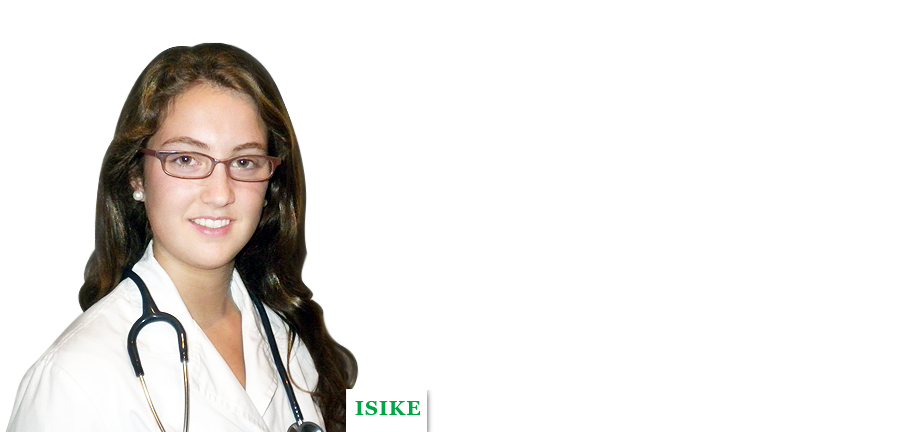
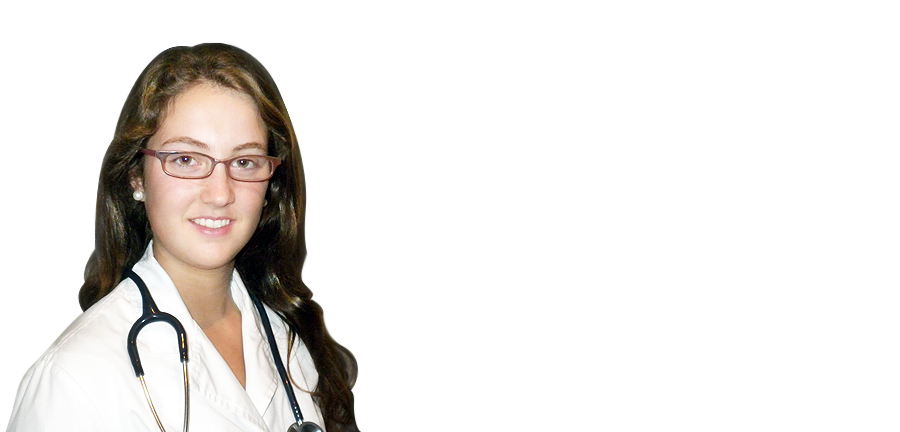
Commit's Info:
- Se cambiarón las imagenes del Banner
- Se modificó imagen del Footer y su pocición
- Se modificó el texto de Quienes Somos
- Se dejarón las cuentas de correo destinatarias
  finales para el formulario de contacto.

Changed region(s): [[0.1867, 0.1806, 0.3111, 0.3009], [0.3733, 0.9028, 0.4978, 1.0], [0.1867, 0.7824, 0.2178, 0.8125]]

diff --git a/website/form.php b/website/form.php
@@ -13,33 +13,12 @@ $comentario = $_POST['comentario'];
 
 //echo "pasa";*/
 
-
-
-
-
-
-
-
-
-
 $html = "
  <h3>Contacto - Larvaterapia</h3>
  <br    /><strong>Nombre:</strong> " . $nombre . " " . $apellido .
 "<br    /><strong>E-mail:</strong> " . $email .
 "<br    /><strong>Comentario:</strong>  " . $comentario .
-"
-
-
-";
-
-
-
-
-
-
-
-
-
+"";
 
 date_default_timezone_set('America/Santiago'); //Se define la zona horaria
 require_once('class/class.phpmailer.php'); //Incluimos la clase phpmailer
@@ -54,8 +33,13 @@ try {
                          //Gmail o de GoogleApps
   $nombre_emisor="Nicolas Fredes";               //Nombre de quien envía el correo
   $contrasena="RitmoyrimA";          //contraseña de tu cuenta en Gmail
-  $correo_destino="francisco.calleja@hotmail.es";      //Correo de quien recibe
+  //$correo_destino="francisco.calleja@hotmail.es";      //Correo de quien recibe
+  $correo_destino="fcalleja87@gmail.com ";      //Correo de quien recibe
   $nombre_destino="Francisco Calleja";                //Nombre de quien recibe
+  $correo_destino2="augartepena@gmail.com";      //Correo de quien recibe
+  $nombre_destino2="A. Ugarte Peña";                //Nombre de quien recibe
+  $correo_destino3="callejahnos@gmail.com";      //Correo de quien recibe
+  $nombre_destino3="Calleja Hmnos";                //Nombre de quien recibe
 //--------------------------------------------------------
   //$mail->SMTPDebug  = 2;                     // Habilita información SMTP (opcional para pruebas)
                                              // 1 = errores y mensajes
@@ -70,6 +54,8 @@ try {
   $mail->AddReplyTo($correo_emisor, $nombre_emisor);
   //La direccion a donde mandamos el correo
   $mail->AddAddress($correo_destino, $nombre_destino);
+  $mail->AddAddress($correo_destino2, $nombre_destino2);
+  $mail->AddAddress($correo_destino3, $nombre_destino3);
   //De parte de quien es el correo
   $mail->SetFrom($correo_emisor, $nombre_emisor);
   //Asunto del correo

diff --git a/website/quienes_somos.php b/website/quienes_somos.php
@@ -13,7 +13,7 @@
                     <p class="span-18">
                         Somos un laboratorio formado por profesionales en el área de la biotecnología, agronomía y entomología,
                         dedicado a la investigación de insectos. Como principal objetivo buscamos implementar terapias o tratamientos
-                        en base a insectos Chilenos, además de generar subproductos biotecnológicos de los mismos, Como empresa nos
+                        en base a insectos Chilenos, además de generar subproductos biotecnológicos de los mismos. Como empresa nos
                         enfocamos en generar soluciones entomológicas-biotecnológicas a problemas que existan en empresas de diferentes sectores.
                     </p>
                     

diff --git a/website/base/footer.php b/website/base/footer.php
@@ -1,7 +1,7 @@
             <div id="footer">
                 <div class="separator">&nbsp;</div>
                 <div class="container">
-                    <img id="footer-cont" class="prepend-1" src="img/png/home/logo adich mas texto.png"   />
+                    <img id="footer-cont" class="prepend-6 span-12 append-6 last" src="img/png/home/logo_isike.png"   />
                 </div>
             </div><!--   Footer  -->
             <?php include_once 'contacto.php'; ?>
